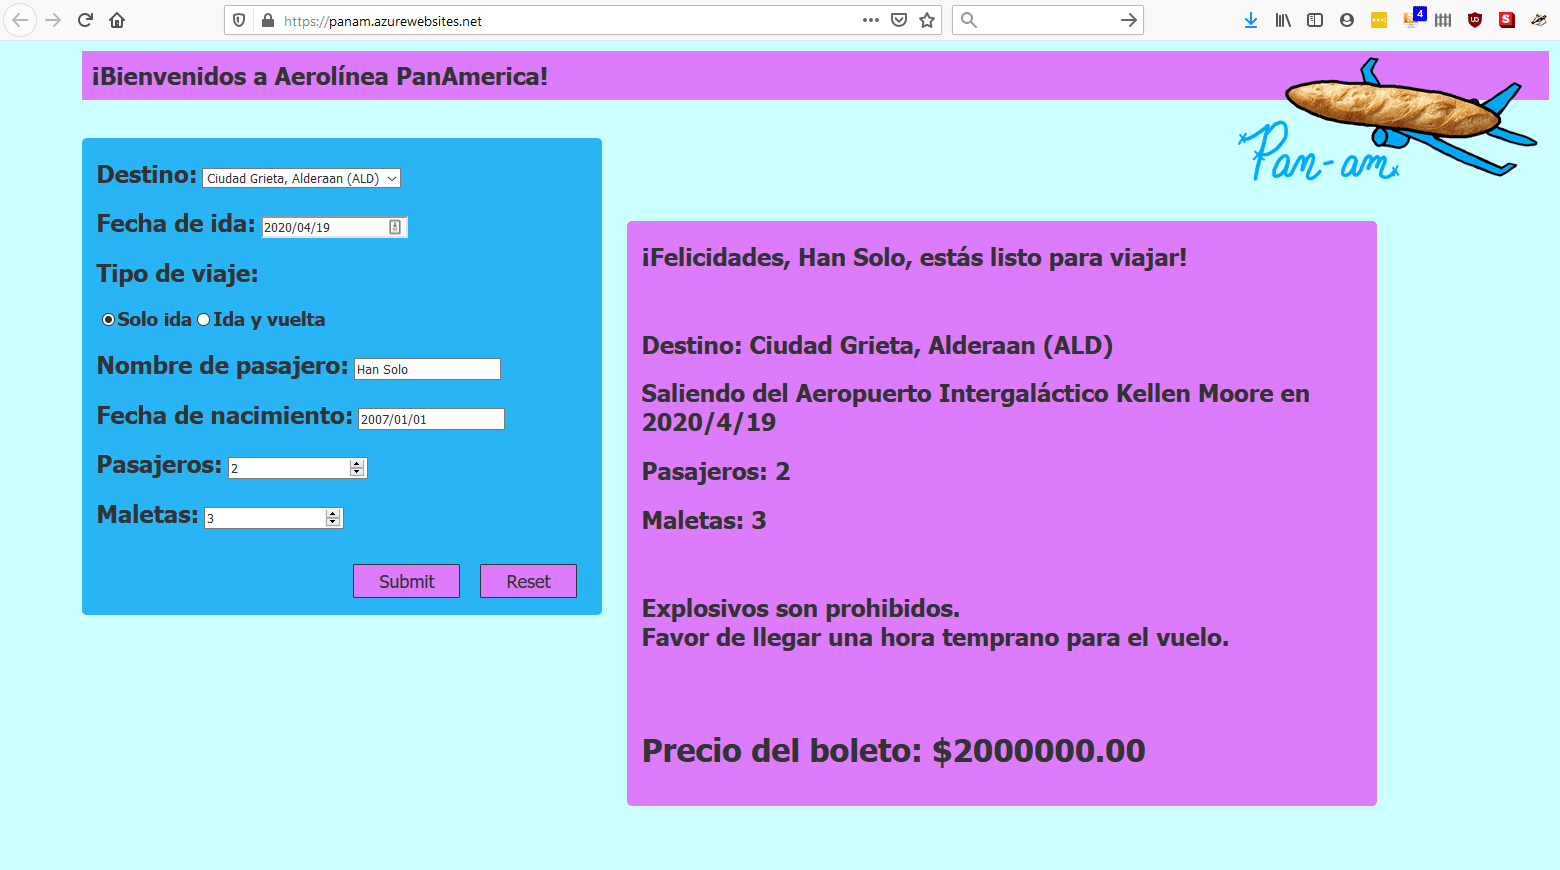
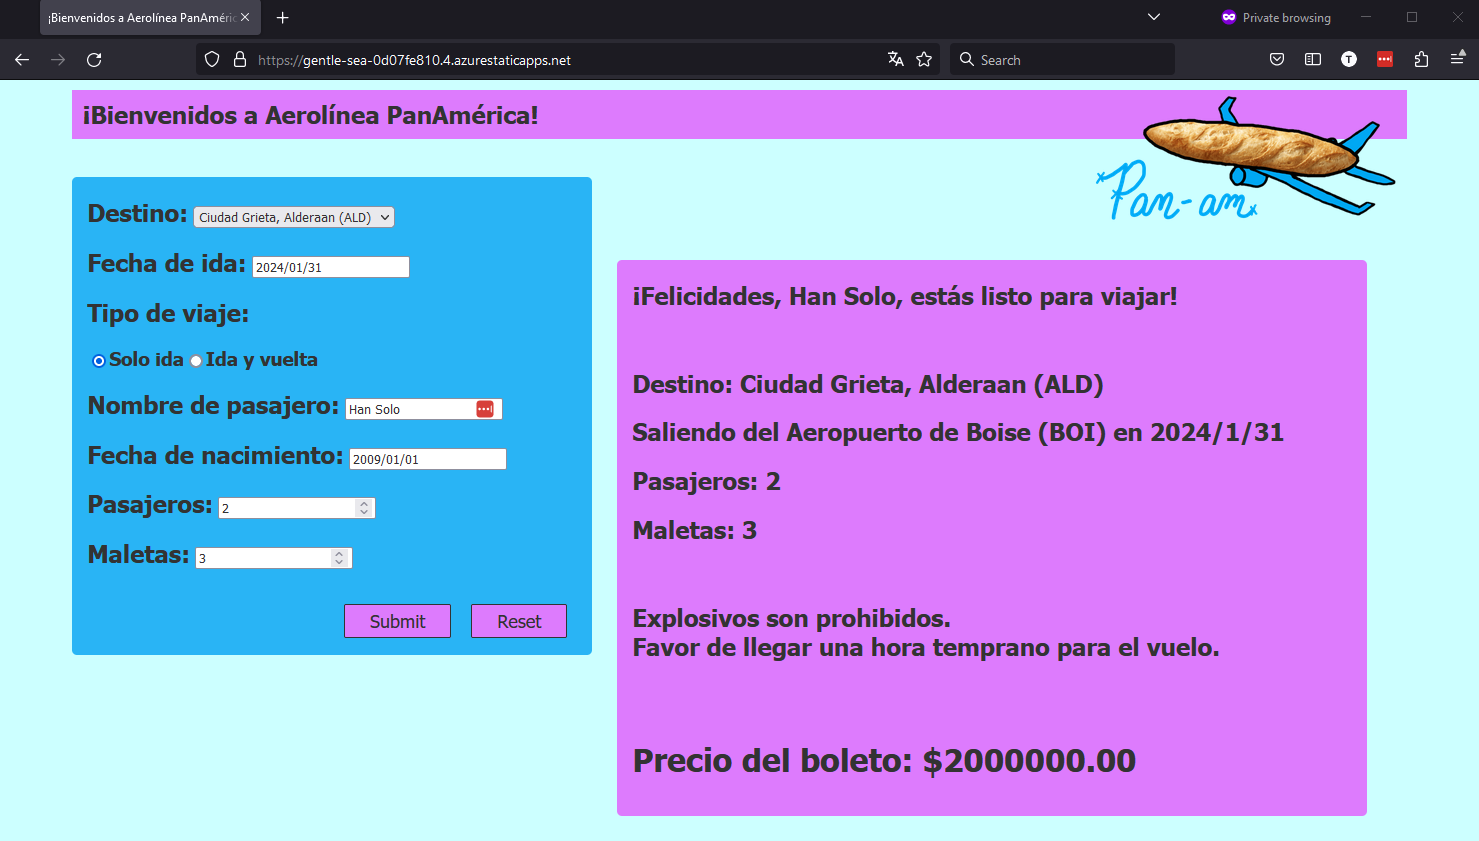
* updated about page * fixed panam link * storyparser page formatting

diff --git a/StoryParser.md b/StoryParser.md
@@ -7,17 +7,19 @@ author: Tim
 	<h2>Story Parser</h2>
 	<p>Copy/paste the text you want analyzed below, and hit "Submit." The script on this page will break it up, strip out punctuation, and return a map of each word to the number of times it appears in the text. This is a very simple program, with no concept of proper nouns, verb conjugations, or anything like that, so use the result as a starting point, not the final answer. <b>Also, the Story Parser probably won't work unless you are using the Latin, Greek, or Cyrillic alphabets with UTF-8 encoding.</b> If you'd like another language added (or if you find a bug!) please shoot me an email at the reverse of moc.liamg@rrub.r.mit.</p><br />
 
-	<input id="input" type="text" accept-charset="UTF-8">
-	<button type="button" onclick="run()">Submit</button>
+	
+	<textarea id="input" accept-charset="UTF-8" rows="6" cols="120"></textarea>
 	<br>
-	<p id="output" style="background-color:white; color:black;"></p>
+	<button type="button" onclick="run()" style="margin:20px"><h1 style="margin:20px">Submit</h1></button>
+	<br>
+	<p id="output" style="background-color:white; color:black; padding:5px; width:640px"></p>
 	<br>
 	<p>If the StoryParser is valuable to you, please consider supporting my latest project on Itch.io or Steam:</p>
 	<br>
-	<iframe src="https://itch.io/embed/1753822?bg_color=151619&amp;fg_color=c1cdda&amp;link_color=2689ff&amp;border_color=3BA55C" width="552" height="167" frameborder="0"><a href="https://hoodmentality.itch.io/barkelona">Barkelona by Hood Mentality Software Studio</a></iframe>
+	<iframe  class="center" src="https://itch.io/embed/1753822?bg_color=151619&amp;fg_color=c1cdda&amp;link_color=2689ff&amp;border_color=3BA55C" width="552" height="167" frameborder="0"><a href="https://hoodmentality.itch.io/barkelona">Barkelona by Hood Mentality Software Studio</a></iframe>
 	<br>
 	<br>
-	<iframe src="https://store.steampowered.com/widget/2434300/" frameborder="0" width="646" height="190"></iframe>
+	<iframe class="center" src="https://store.steampowered.com/widget/2434300/" frameborder="0" width="646" height="190"></iframe>
 	<br>
 	<script> 
 	function run() 

diff --git a/_posts/2020-01-10-panam-notes.md b/_posts/2020-01-10-panam-notes.md
@@ -6,7 +6,7 @@ author: Tim
 tags: school, tech
 ---
 
-I recently finished a fake travel web site for Spanish learners. You can look at it [here](https://panam.azurewebsites.net) [^1], or check out the [Github repo](https://github.com/timburr1/panam).  
+I recently finished a fake travel web site for Spanish learners. You can look at it [here](https://gentle-sea-0d07fe810.4.azurestaticapps.net/) [^1], or check out the [Github repo](https://github.com/timburr1/panam).  
 
 It was built with React, based on Brian Holt's [Complete Intro to React v5](https://github.com/btholt/complete-intro-to-react-v5) course for [FrontEndMasters](https://frontendmasters.com/courses/complete-react-v5/). This was overkill, but I needed to learn React for work.  
 

diff --git a/about.md b/about.md
@@ -10,3 +10,8 @@ Hello, my name is Tim! I am an educator, entrepreneur, and full-stack software d
 
 ## About This Site  
 This blog is meant to be a sort of scratchpad or [commonplace book](https://en.wikipedia.org/wiki/Commonplace_book), to record things that I want to remember or share later. It was mostly written in [Markdown](https://daringfireball.net/projects/markdown/) and compiled with [Jekyll](https://jekyllrb.com/). The source code is available [here](https://github.com/timburr1/timburr1.github.io), and it's obviously hosted on [GitHub Pages](https://pages.github.com/).  
+
+## About Bonnie
+She is very cute.
+
+<img class="center" src="/images/bonnie.jpg" width="450" alt=""/>
